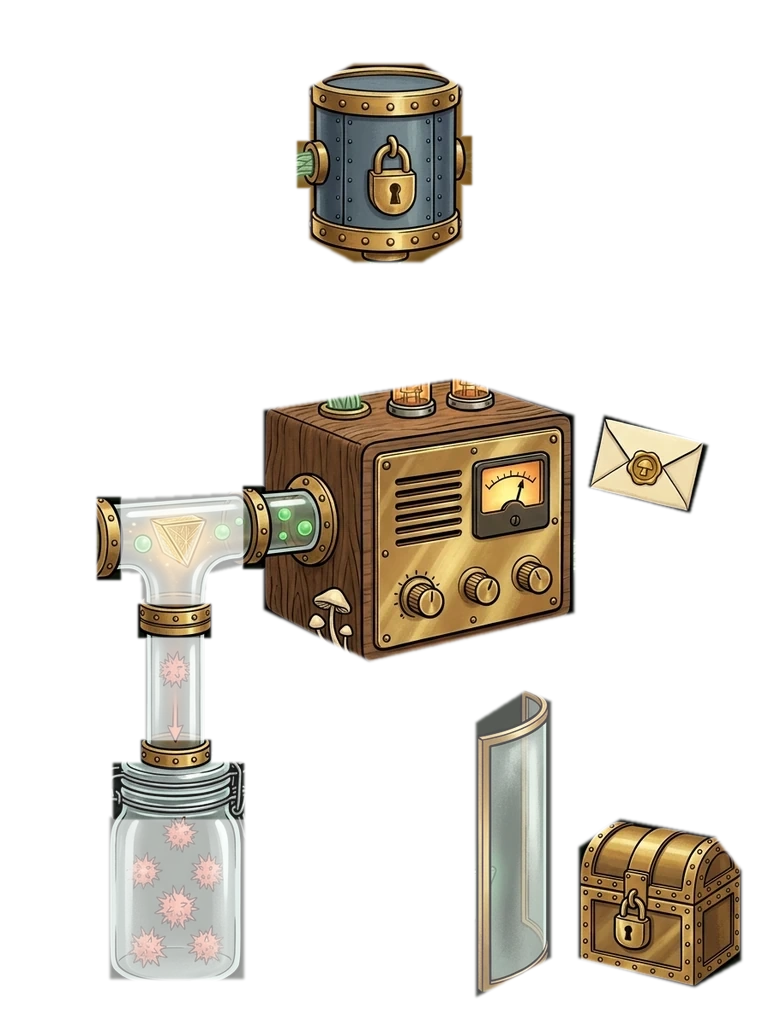
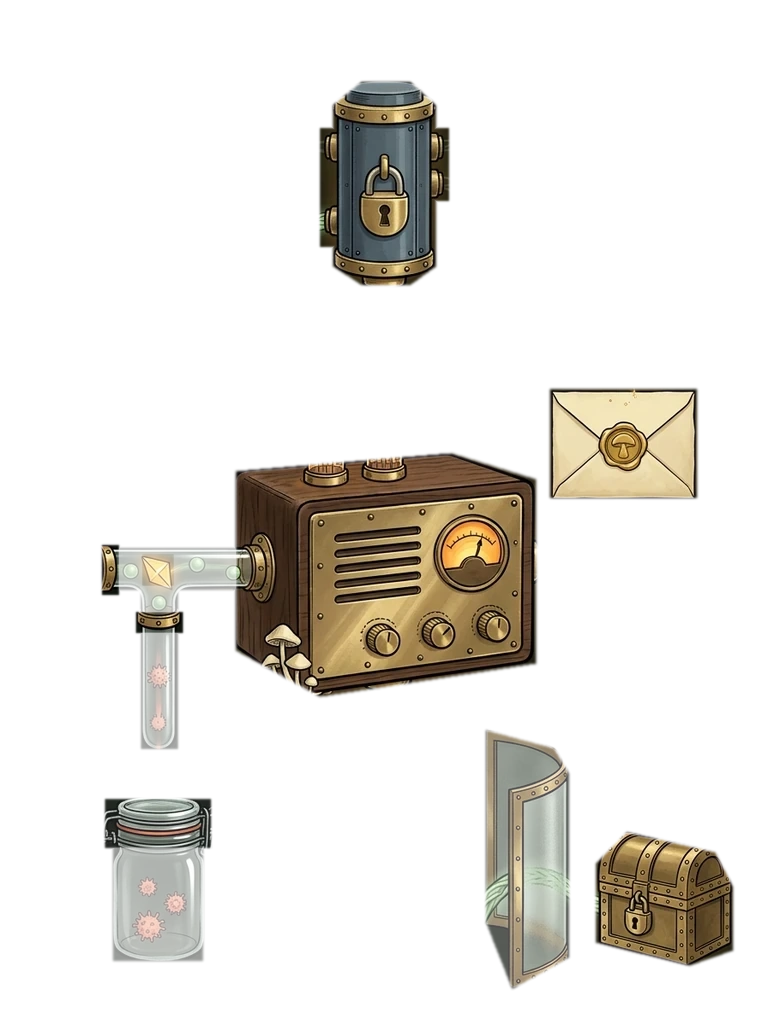
docs(site): balance unified security proportions with slimmer glass T-tube, smaller jar & node, bigger letter

Changed region(s): [[0.125, 0.3438, 0.9688, 0.9688], [0.375, 0.0625, 0.625, 0.2812]]

diff --git a/site/index.html b/site/index.html
@@ -1096,7 +1096,7 @@ hyp deploy init tailscale</pre>
             <!-- Center Unified Vertical Dark Security Stage -->
             <div class="sec-uni-center">
               <div class="sec-uni-stage" id="secUniStage">
-                <img class="sec-uni-base" src="./assets/sec-unified.webp?v=3" alt="Unified Hyphae security diagram showing a multi-peer Blind Hub linked to distant background peer nodes, feeding into Your Local Node through a brass-and-glass T-tube filter draining thorny red spores straight into a quarantine jar, plus one biometric phone branching to a wax-sealed approval envelope and an OS Keychain vault shielded from Your Agent" decoding="async" />
+                <img class="sec-uni-base" src="./assets/sec-unified.webp?v=4" alt="Unified Hyphae security diagram showing a multi-peer Blind Hub linked to distant background peer nodes, feeding into a centered compact Local Node with a slim brass-and-glass T-tube filter dripping thorny red spores into a small quarantine jar, plus one biometric phone branching to a prominent wax-sealed approval envelope and an OS Keychain vault shielded from Your Agent" decoding="async" />
 
                 <!-- Layer 1: Soft glowing background & foreground mycelium tendrils -->
                 <svg class="sec-uni-tendrils" viewBox="0 0 300 400" fill="none" aria-hidden="true">
@@ -1107,141 +1107,141 @@ hyp deploy init tailscale</pre>
                     </filter>
                   </defs>
                   <!-- Subtle dimmed pulses flowing from the 3 distant background peer nodes into the Blind Hub -->
-                  <path class="sec-bg-wisp" pathLength="100" d="M 100 32 C 110 34, 114 48, 122 50" />
-                  <path class="sec-bg-wisp delay" pathLength="100" d="M 212 34 C 198 36, 194 56, 182 58" />
-                  <path class="sec-bg-wisp slow" pathLength="100" d="M 210 86 C 198 86, 192 70, 182 64" />
+                  <path class="sec-bg-wisp" pathLength="100" d="M 94 40 C 108 42, 114 58, 128 58" />
+                  <path class="sec-bg-wisp delay" pathLength="100" d="M 200 38 C 190 42, 186 58, 174 58" />
+                  <path class="sec-bg-wisp slow" pathLength="100" d="M 192 92 C 184 90, 182 74, 174 70" />
                   <!-- Primary active mycelium energy trails -->
-                  <path class="sec-tendril olive" filter="url(#uniGlow)" pathLength="100" d="M 92 80 C 106 80, 114 64, 150 64 L 150 102 C 148 122, 130 132, 132 154" />
-                  <path class="sec-tendril coral slow" filter="url(#uniGlow)" pathLength="100" d="M 4 210 C 18 210, 32 210, 68 209 C 68 228, 68 256, 68 292" />
-                  <path class="sec-tendril olive delay" filter="url(#uniGlow)" pathLength="100" d="M 176 254 C 174 282, 110 286, 110 322 C 110 356, 134 372, 174 366" />
-                  <path class="sec-tendril amber slow" filter="url(#uniGlow)" pathLength="100" d="M 248 114 C 242 136, 250 156, 252 178 C 250 202, 238 214, 224 216" />
-                  <path class="sec-tendril moss delay" filter="url(#uniGlow)" pathLength="100" d="M 262 118 C 272 150, 290 176, 282 210 C 274 240, 252 256, 256 292 C 258 312, 260 324, 260 338" />
+                  <path class="sec-tendril olive" filter="url(#uniGlow)" pathLength="100" d="M 99 116 C 114 116, 116 86, 150 86 L 150 114 L 150 178" />
+                  <path class="sec-tendril coral slow" filter="url(#uniGlow)" pathLength="100" d="M 4 222 C 20 222, 34 222, 62 222 C 62 238, 62 266, 62 292" />
+                  <path class="sec-tendril olive delay" filter="url(#uniGlow)" pathLength="100" d="M 150 270 C 146 296, 110 304, 110 338 C 110 368, 136 376, 176 368" />
+                  <path class="sec-tendril amber slow" filter="url(#uniGlow)" pathLength="100" d="M 244 126 C 244 142, 244 156, 244 176 C 244 202, 232 218, 210 218" />
+                  <path class="sec-tendril moss delay" filter="url(#uniGlow)" pathLength="100" d="M 268 108 C 284 146, 290 184, 276 218 C 264 248, 250 278, 258 334" />
                 </svg>
 
                 <!-- Layer 2: True transparent PNG sprites flowing behind brass collars & INSIDE clear glass T-tube! -->
                 <svg class="sec-uni-sprites" viewBox="0 0 300 400" fill="none" aria-hidden="true">
-                  <!-- E2EE: Peer Node -> behind Blind Hub -> down into Your Local Node -->
+                  <!-- E2EE: Peer Node -> behind Blind Hub -> straight down into Your Local Node -->
                   <g class="sec-sp-wrap">
-                    <image href="./assets/sprite-orb-green.png" x="-6.5" y="-6.5" width="13" height="13">
-                      <animateMotion dur="4.2s" repeatCount="indefinite" path="M 92 80 C 106 80, 116 64, 150 64 L 150 102 C 148 122, 130 134, 133 158" />
+                    <image href="./assets/sprite-orb-green.png" x="-6" y="-6" width="12" height="12">
+                      <animateMotion dur="4.2s" repeatCount="indefinite" path="M 99 116 C 114 116, 116 86, 150 86 L 150 114 L 150 182" />
                     </image>
                   </g>
                   <g class="sec-sp-wrap">
-                    <image href="./assets/sprite-spark-amber.png" x="-6" y="-6" width="12" height="12">
-                      <animateMotion dur="4.2s" begin="-2.1s" repeatCount="indefinite" path="M 92 82 C 108 78, 118 65, 151 66 L 151 102 C 148 122, 131 134, 134 158" />
+                    <image href="./assets/sprite-spark-amber.png" x="-5.5" y="-5.5" width="11" height="11">
+                      <animateMotion dur="4.2s" begin="-2.1s" repeatCount="indefinite" path="M 99 118 C 115 114, 118 88, 151 88 L 151 114 L 151 182" />
                     </image>
                   </g>
                   <g class="sec-sp-wrap">
                     <image href="./assets/sprite-orb-green.png" x="-5" y="-5" width="10" height="10">
-                      <animateMotion dur="3.6s" begin="-1.1s" repeatCount="indefinite" path="M 94 78 C 108 76, 118 64, 150 65 L 150 102 C 146 122, 129 134, 132 158" />
+                      <animateMotion dur="3.6s" begin="-1.1s" repeatCount="indefinite" path="M 100 114 C 114 112, 118 85, 149 85 L 149 114 L 149 182" />
                     </image>
                   </g>
 
-                  <!-- Untrusted Far-Left Edge -> INSIDE Glass T-Tube -> Golden Prism -> 90° DOWN Vertical Glass Pipe -> Quarantine Jar! -->
+                  <!-- Untrusted Far-Left Edge -> INSIDE Slim Glass T-Tube -> Golden Prism -> 90° DOWN Dropper -> Compact Quarantine Jar! -->
                   <g class="sec-sp-wrap sec-sp-spin">
-                    <image href="./assets/sprite-spore-red.png" x="-7" y="-7" width="14" height="14">
-                      <animateMotion dur="3.8s" repeatCount="indefinite" path="M -6 196 C 14 202, 26 210, 62 209 C 68 209, 68 214, 68 232 L 68 358" />
+                    <image href="./assets/sprite-spore-red.png" x="-6.5" y="-6.5" width="13" height="13">
+                      <animateMotion dur="3.8s" repeatCount="indefinite" path="M -4 210 C 14 216, 28 222, 57 222 C 62 222, 62 226, 62 242 L 62 356" />
                       <animate attributeName="opacity" values="0;1;1;1;0.9;0" keyTimes="0;0.07;0.65;0.84;0.93;1" dur="3.8s" repeatCount="indefinite" />
                     </image>
                   </g>
                   <g class="sec-sp-wrap sec-sp-spin-rev">
-                    <image href="./assets/sprite-spore-red.png" x="-6" y="-6" width="12" height="12">
-                      <animateMotion dur="4.1s" begin="-1.4s" repeatCount="indefinite" path="M -6 210 C 14 210, 28 210, 62 210 C 68 210, 68 216, 68 236 L 64 360" />
+                    <image href="./assets/sprite-spore-red.png" x="-5.5" y="-5.5" width="11" height="11">
+                      <animateMotion dur="4.1s" begin="-1.4s" repeatCount="indefinite" path="M -4 222 C 14 222, 28 222, 57 222 C 62 222, 62 228, 62 246 L 59 358" />
                       <animate attributeName="opacity" values="0;1;1;1;0.9;0" keyTimes="0;0.07;0.65;0.84;0.93;1" dur="4.1s" begin="-1.4s" repeatCount="indefinite" />
                     </image>
                   </g>
                   <g class="sec-sp-wrap sec-sp-spin">
-                    <image href="./assets/sprite-spore-red.png" x="-5.5" y="-5.5" width="11" height="11">
-                      <animateMotion dur="3.5s" begin="-2.6s" repeatCount="indefinite" path="M -4 222 C 16 216, 28 211, 63 210 C 68 210, 68 216, 68 236 L 73 354" />
+                    <image href="./assets/sprite-spore-red.png" x="-5" y="-5" width="10" height="10">
+                      <animateMotion dur="3.5s" begin="-2.6s" repeatCount="indefinite" path="M -4 234 C 16 228, 28 223, 58 222 C 62 222, 62 228, 62 246 L 66 352" />
                       <animate attributeName="opacity" values="0;1;1;1;0.9;0" keyTimes="0;0.07;0.65;0.84;0.93;1" dur="3.5s" begin="-2.6s" repeatCount="indefinite" />
                     </image>
                   </g>
 
-                  <!-- Clean Green Spores: Glide Straight THROUGH Glass T-Tube & Golden Prism -> Into Your Node -> Down Clean Braid To Your Agent! -->
+                  <!-- Clean Green Spores: Glide Straight THROUGH Slim Glass T-Tube & Golden Prism -> Into Centered Local Node -> Down To Agent! -->
                   <g class="sec-sp-wrap">
-                    <image href="./assets/sprite-orb-green.png" x="-6" y="-6" width="12" height="12">
-                      <animateMotion dur="4.6s" repeatCount="indefinite" path="M -4 218 C 14 214, 28 210, 68 209 L 136 205 L 172 252 C 170 282, 110 286, 110 322 C 110 356, 134 372, 172 365" />
+                    <image href="./assets/sprite-orb-green.png" x="-5.5" y="-5.5" width="11" height="11">
+                      <animateMotion dur="4.6s" repeatCount="indefinite" path="M -2 228 C 16 225, 28 222, 62 222 L 106 222 L 150 268 C 146 296, 110 304, 110 338 C 110 368, 136 376, 174 368" />
                       <animate attributeName="opacity" values="0;1;1;1;0" keyTimes="0;0.06;0.88;0.95;1" dur="4.6s" repeatCount="indefinite" />
                     </image>
                   </g>
                   <g class="sec-sp-wrap">
-                    <image href="./assets/sprite-orb-green.png" x="-5.5" y="-5.5" width="11" height="11">
-                      <animateMotion dur="4.6s" begin="-1.55s" repeatCount="indefinite" path="M 10 212 C 26 210, 44 209, 72 208 L 138 204 L 174 252 C 172 282, 112 288, 111 324 C 111 358, 136 372, 174 365" />
+                    <image href="./assets/sprite-orb-green.png" x="-5" y="-5" width="10" height="10">
+                      <animateMotion dur="4.6s" begin="-1.55s" repeatCount="indefinite" path="M 8 222 C 26 222, 44 222, 64 222 L 108 222 L 151 268 C 146 296, 112 306, 111 340 C 111 368, 138 376, 176 368" />
                       <animate attributeName="opacity" values="0;1;1;1;0" keyTimes="0;0.06;0.88;0.95;1" dur="4.6s" begin="-1.55s" repeatCount="indefinite" />
                     </image>
                   </g>
                   <g class="sec-sp-wrap">
                     <image href="./assets/sprite-orb-green.png" x="-5" y="-5" width="10" height="10">
-                      <animateMotion dur="4.6s" begin="-3.1s" repeatCount="indefinite" path="M 176 250 C 174 282, 110 286, 110 322 C 110 356, 134 372, 172 366" />
+                      <animateMotion dur="4.6s" begin="-3.1s" repeatCount="indefinite" path="M 150 266 C 146 296, 110 304, 110 338 C 110 368, 136 376, 174 368" />
                       <animate attributeName="opacity" values="0;1;1;1;0" keyTimes="0;0.08;0.86;0.94;1" dur="4.6s" begin="-3.1s" repeatCount="indefinite" />
                     </image>
                   </g>
 
-                  <!-- Phone -> Golden Sparks Behind Wax-Sealed Envelope -> Verified Stream Into Your Local Node -->
+                  <!-- Phone -> Golden Sparks Down Into Prominent Wax-Sealed Letter -> Verified Stream Into Centered Local Node -->
                   <g class="sec-sp-wrap">
                     <image href="./assets/sprite-spark-amber.png" x="-6.5" y="-6.5" width="13" height="13">
-                      <animateMotion dur="3.4s" repeatCount="indefinite" path="M 248 114 C 242 136, 250 156, 252 180 C 250 202, 238 214, 220 216" />
+                      <animateMotion dur="3.4s" repeatCount="indefinite" path="M 244 124 C 244 140, 244 154, 244 176 C 244 202, 232 218, 204 218" />
                       <animate attributeName="opacity" values="0;1;1;0" keyTimes="0;0.1;0.86;1" dur="3.4s" repeatCount="indefinite" />
                     </image>
                   </g>
                   <g class="sec-sp-wrap">
                     <image href="./assets/sprite-spark-amber.png" x="-5.5" y="-5.5" width="11" height="11">
-                      <animateMotion dur="3.4s" begin="-1.7s" repeatCount="indefinite" path="M 250 116 C 244 138, 252 158, 254 182 C 250 204, 238 215, 220 217" />
+                      <animateMotion dur="3.4s" begin="-1.7s" repeatCount="indefinite" path="M 246 126 C 246 142, 245 156, 244 178 C 242 204, 230 220, 204 219" />
                       <animate attributeName="opacity" values="0;1;1;0" keyTimes="0;0.1;0.86;1" dur="3.4s" begin="-1.7s" repeatCount="indefinite" />
                     </image>
                   </g>
 
-                  <!-- Phone -> Glowing Skeleton Keys Down Right Conduit -> Inside Brass OS Keychain Vault Chest! -->
+                  <!-- Phone -> Glowing Skeleton Keys Down Right Conduit -> Inside Compact Brass OS Keychain Vault Chest! -->
                   <g class="sec-sp-wrap">
-                    <image href="./assets/sprite-key-gold.png" x="-7.5" y="-7.5" width="15" height="15">
-                      <animateMotion dur="4.2s" repeatCount="indefinite" path="M 262 118 C 272 150, 290 176, 282 210 C 274 240, 252 256, 256 292 C 258 312, 260 326, 260 342" />
+                    <image href="./assets/sprite-key-gold.png" x="-7" y="-7" width="14" height="14">
+                      <animateMotion dur="4.2s" repeatCount="indefinite" path="M 268 108 C 284 146, 290 184, 276 218 C 264 248, 250 278, 258 342" />
                       <animate attributeName="opacity" values="0;1;1;1;0" keyTimes="0;0.08;0.8;0.9;1" dur="4.2s" repeatCount="indefinite" />
                     </image>
                   </g>
                   <g class="sec-sp-wrap">
-                    <image href="./assets/sprite-key-gold.png" x="-6.5" y="-6.5" width="13" height="13">
-                      <animateMotion dur="4.2s" begin="-1.4s" repeatCount="indefinite" path="M 264 120 C 274 152, 291 178, 283 212 C 275 242, 254 258, 258 294 C 260 314, 261 326, 261 342" />
+                    <image href="./assets/sprite-key-gold.png" x="-6" y="-6" width="12" height="12">
+                      <animateMotion dur="4.2s" begin="-1.4s" repeatCount="indefinite" path="M 270 110 C 285 148, 291 186, 277 220 C 265 250, 252 280, 259 342" />
                       <animate attributeName="opacity" values="0;1;1;1;0" keyTimes="0;0.08;0.8;0.9;1" dur="4.2s" begin="-1.4s" repeatCount="indefinite" />
                     </image>
                   </g>
                   <g class="sec-sp-wrap">
-                    <image href="./assets/sprite-key-gold.png" x="-6" y="-6" width="12" height="12">
-                      <animateMotion dur="4.2s" begin="-2.8s" repeatCount="indefinite" path="M 260 118 C 270 148, 288 174, 280 208 C 272 238, 250 256, 254 292 C 256 312, 259 326, 259 342" />
+                    <image href="./assets/sprite-key-gold.png" x="-5.5" y="-5.5" width="11" height="11">
+                      <animateMotion dur="4.2s" begin="-2.8s" repeatCount="indefinite" path="M 266 108 C 282 144, 288 182, 274 216 C 262 246, 249 278, 257 342" />
                       <animate attributeName="opacity" values="0;1;1;1;0" keyTimes="0;0.08;0.8;0.9;1" dur="4.2s" begin="-2.8s" repeatCount="indefinite" />
                     </image>
                   </g>
                 </svg>
 
-                <!-- Layer 3: Pixel-exact foreground occlusion cutout (glass T-tube sheen + brass collars + jar lid!) -->
-                <img class="sec-uni-fg" src="./assets/sec-unified-fg.webp?v=3" alt="" aria-hidden="true" />
+                <!-- Layer 3: Pixel-exact foreground occlusion cutout (slim glass T-tube sheen + brass collars + jar lid!) -->
+                <img class="sec-uni-fg" src="./assets/sec-unified-fg.webp?v=4" alt="" aria-hidden="true" />
 
                 <!-- Layer 4: Crisp Always-Lit Monospace Micro-Labels -->
                 <div class="sec-uni-labels" aria-hidden="true">
-                  <span class="sec-uni-tag tone-olive" style="left: 19%; top: 31.4%;">Peer node</span>
-                  <span class="sec-uni-tag tone-olive" style="left: 50%; top: 3.8%;">Blind hub</span>
-                  <span class="sec-uni-tag tone-cream" style="left: 86%; top: 7.4%;">Your phone</span>
-                  <span class="sec-uni-tag tone-coral" style="left: 12.5%; top: 38.2%;">Untrusted</span>
-                  <span class="sec-uni-tag tone-coral" style="left: 61%; top: 64.6%;">Your node</span>
-                  <span class="sec-uni-tag tone-coral" style="left: 23%; top: 97.0%;">Quarantine</span>
-                  <span class="sec-uni-tag tone-amber" style="left: 82%; top: 53.0%;">Signed msg</span>
-                  <span class="sec-uni-tag tone-cream" style="left: 50%; top: 97.0%;">Your agent</span>
-                  <span class="sec-uni-tag tone-moss" style="left: 84.5%; top: 97.0%;">OS Keychain</span>
+                  <span class="sec-uni-tag tone-olive" style="left: 21%; top: 37.8%;">Peer node</span>
+                  <span class="sec-uni-tag tone-olive" style="left: 50%; top: 4.5%;">Blind hub</span>
+                  <span class="sec-uni-tag tone-cream" style="left: 84.5%; top: 7.5%;">Your phone</span>
+                  <span class="sec-uni-tag tone-coral" style="left: 13.5%; top: 46.2%;">Untrusted</span>
+                  <span class="sec-uni-tag tone-coral" style="left: 55.5%; top: 70.2%;">Your node</span>
+                  <span class="sec-uni-tag tone-coral" style="left: 20.5%; top: 96.8%;">Quarantine</span>
+                  <span class="sec-uni-tag tone-amber" style="left: 82%; top: 54.4%;">Signed msg</span>
+                  <span class="sec-uni-tag tone-cream" style="left: 50.5%; top: 96.8%;">Your agent</span>
+                  <span class="sec-uni-tag tone-moss" style="left: 86%; top: 96.8%;">OS Keychain</span>
                 </div>
 
                 <!-- Layer 5: 4 Always-Active Circular Inspection Lenses -->
-                <div class="sec-lens tone-olive" data-sec="e2ee" aria-hidden="true" style="left: 50.5%; top: 16.0%; width: 25.0%; height: 18.8%;">
+                <div class="sec-lens tone-olive" data-sec="e2ee" aria-hidden="true" style="left: 50.0%; top: 18.0%; width: 22.5%; height: 16.9%;">
                   <span class="sec-lens-ring"></span>
                   <span class="sec-lens-tag">1</span>
                 </div>
-                <div class="sec-lens tone-coral" data-sec="gate" aria-hidden="true" style="left: 24.5%; top: 53.0%; width: 28.0%; height: 21.0%;">
+                <div class="sec-lens tone-coral" data-sec="gate" aria-hidden="true" style="left: 22.5%; top: 56.5%; width: 25.0%; height: 18.8%;">
                   <span class="sec-lens-ring"></span>
                   <span class="sec-lens-tag">2</span>
                 </div>
-                <div class="sec-lens tone-amber" data-sec="sign" aria-hidden="true" style="left: 84.2%; top: 45.2%; width: 20.5%; height: 15.4%;">
+                <div class="sec-lens tone-amber" data-sec="sign" aria-hidden="true" style="left: 81.2%; top: 43.3%; width: 24.5%; height: 18.4%;">
                   <span class="sec-lens-ring"></span>
                   <span class="sec-lens-tag">3</span>
                 </div>
-                <div class="sec-lens tone-moss" data-sec="passkey" aria-hidden="true" style="left: 85.5%; top: 88.0%; width: 24.0%; height: 18.0%;">
+                <div class="sec-lens tone-moss" data-sec="passkey" aria-hidden="true" style="left: 86.2%; top: 87.8%; width: 23.0%; height: 17.2%;">
                   <span class="sec-lens-ring"></span>
                   <span class="sec-lens-tag">4</span>
                 </div>
